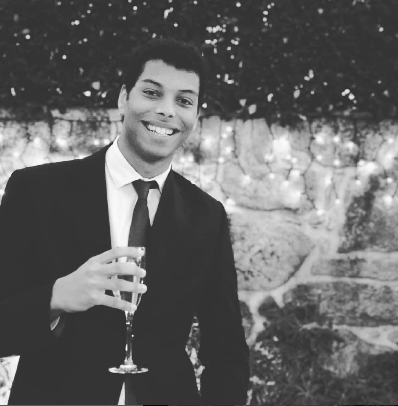
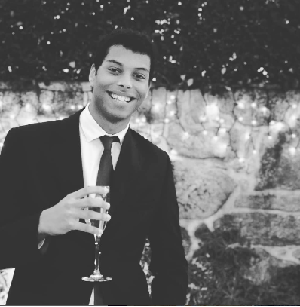
Added links for email and github. Added border to profile image and change the shape of the mentionated image

diff --git a/CV_main_page.html b/CV_main_page.html
@@ -11,21 +11,30 @@
             header {
                 color: white;
                 background-color: #000080;
-                padding: 25px;
+                padding: 6%;
+            }
+
+            body {
+                margin: 0;
+                font-family: Arial, Helvetica, sans-serif;
                 text-align: center;
             }
 
-            body{
-                margin: 0;
-                font-family: Arial, Helvetica, sans-serif;
+            a { 
+                color: white;
             }
+
+            img {
+                border-radius: 50%;
+            }
+
         </style>
 
 
     </head>
     <body>
         <header>
-            <img src ="profile_image.png">
+            <img src ="profile_image.png" alt="Avatar">
             <h1>
                 Gilberto Manuel Araújo Martins 
             </h1>
@@ -35,9 +44,12 @@
                     Gender: Male<br>
                 </p>
                 <p>
-                    Email: gilmartins1999@gmail.com<br>
+                    Email: 
+                    <a href ="mailto:gilmartins1999@gmail.com?subject = Feedback&body = Message">gilmartins1999@gmail.com</a><br>
                     Phone: (+351) 932277375<br>
-                    Github: https://github.com/Martinez9991
+                    Github: 
+                    <a href ="https://github.com/Martinez9991">https://github.com/Martinez9991</a>
+                    
                 </p>
         </header>
         <div>
